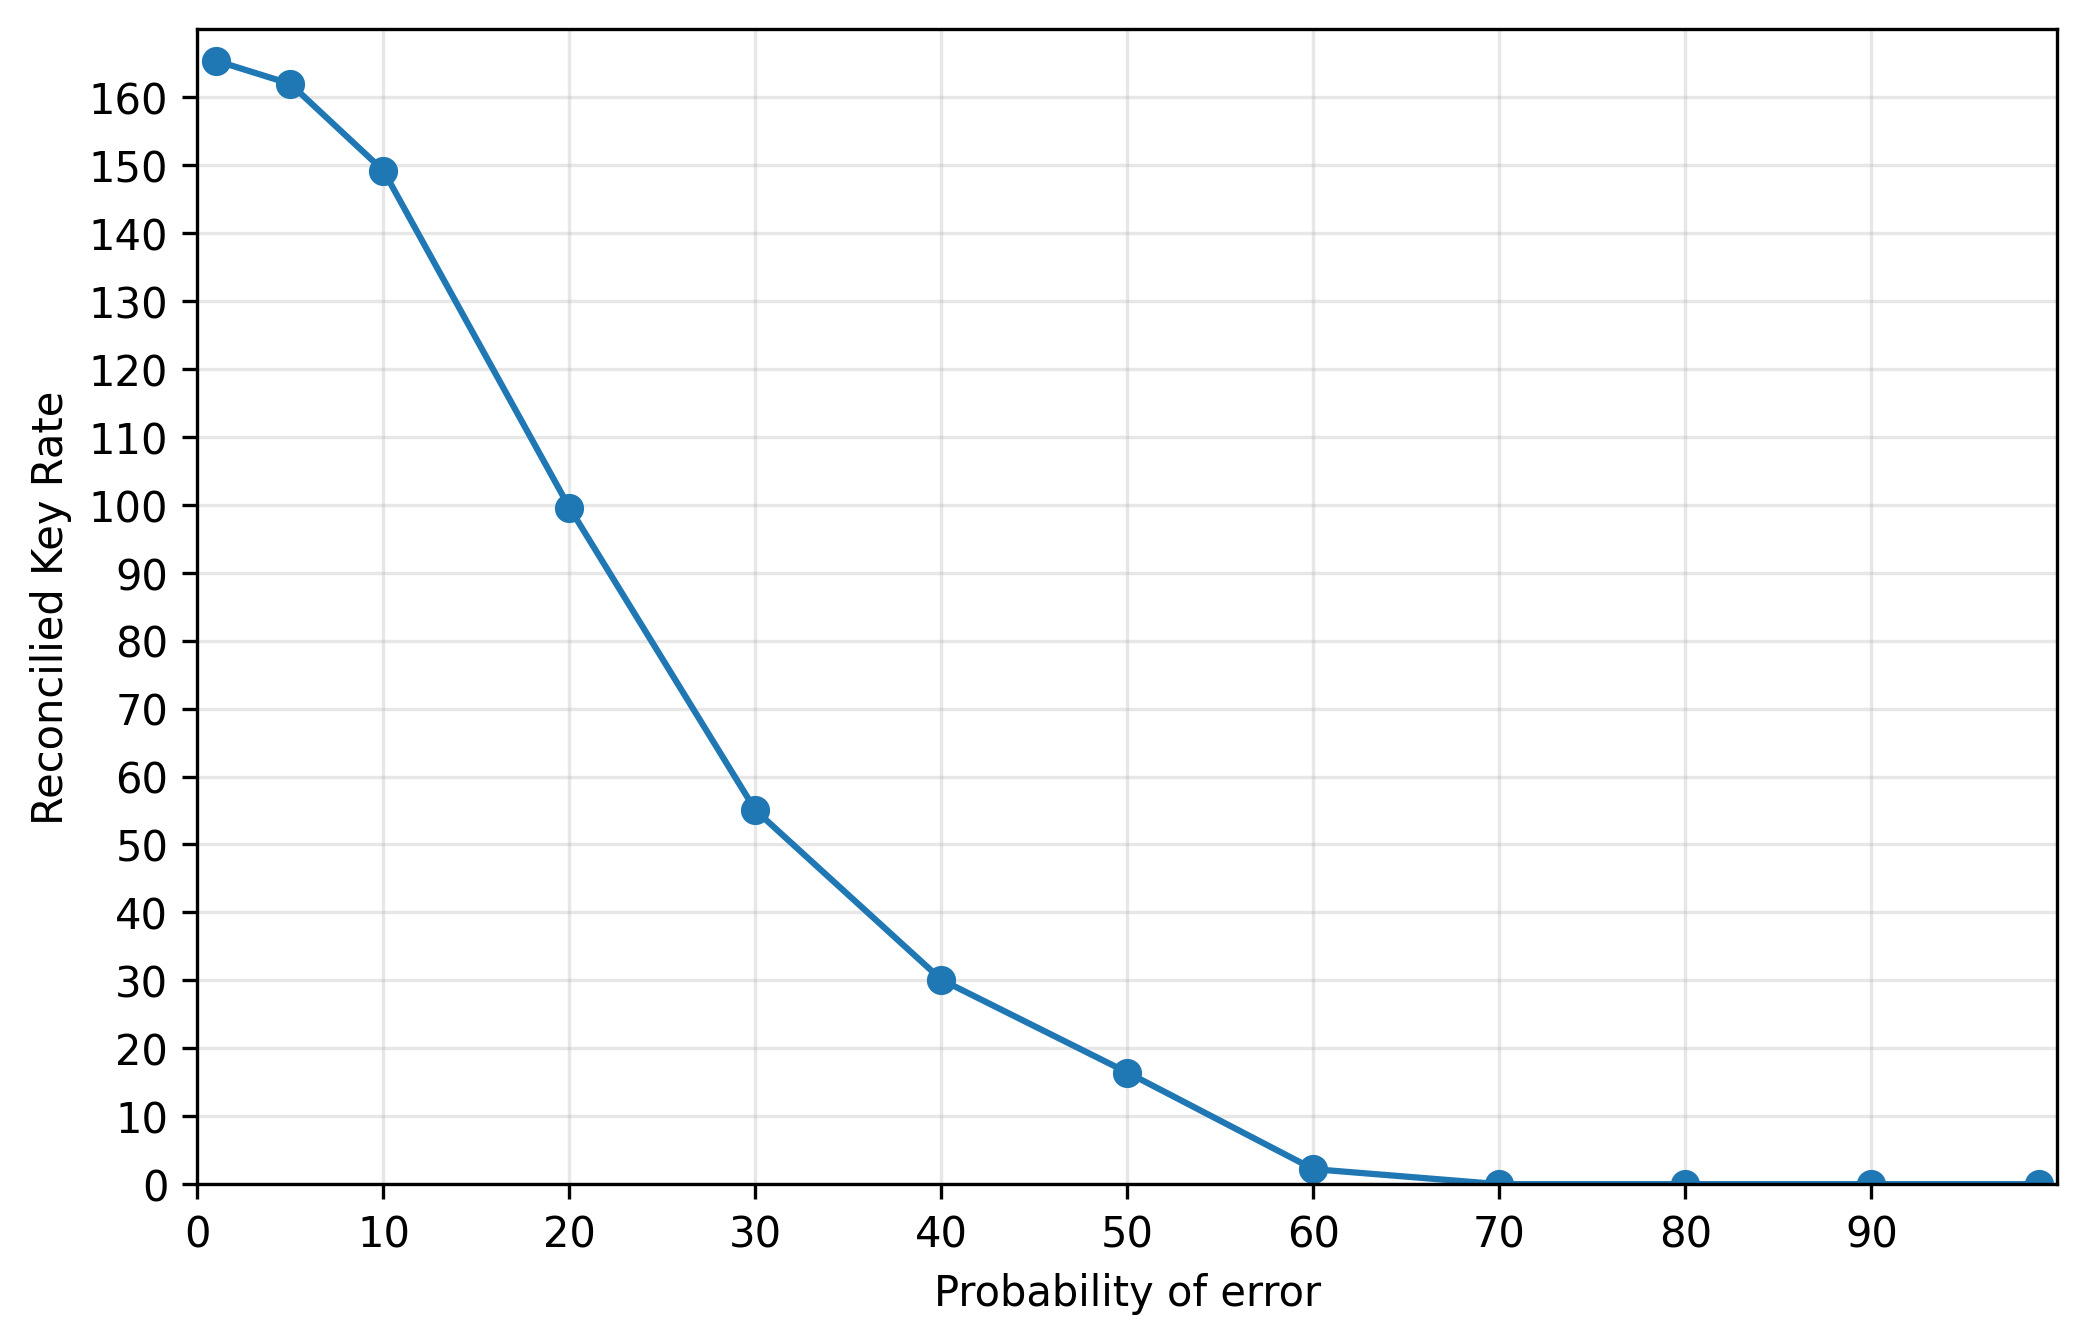
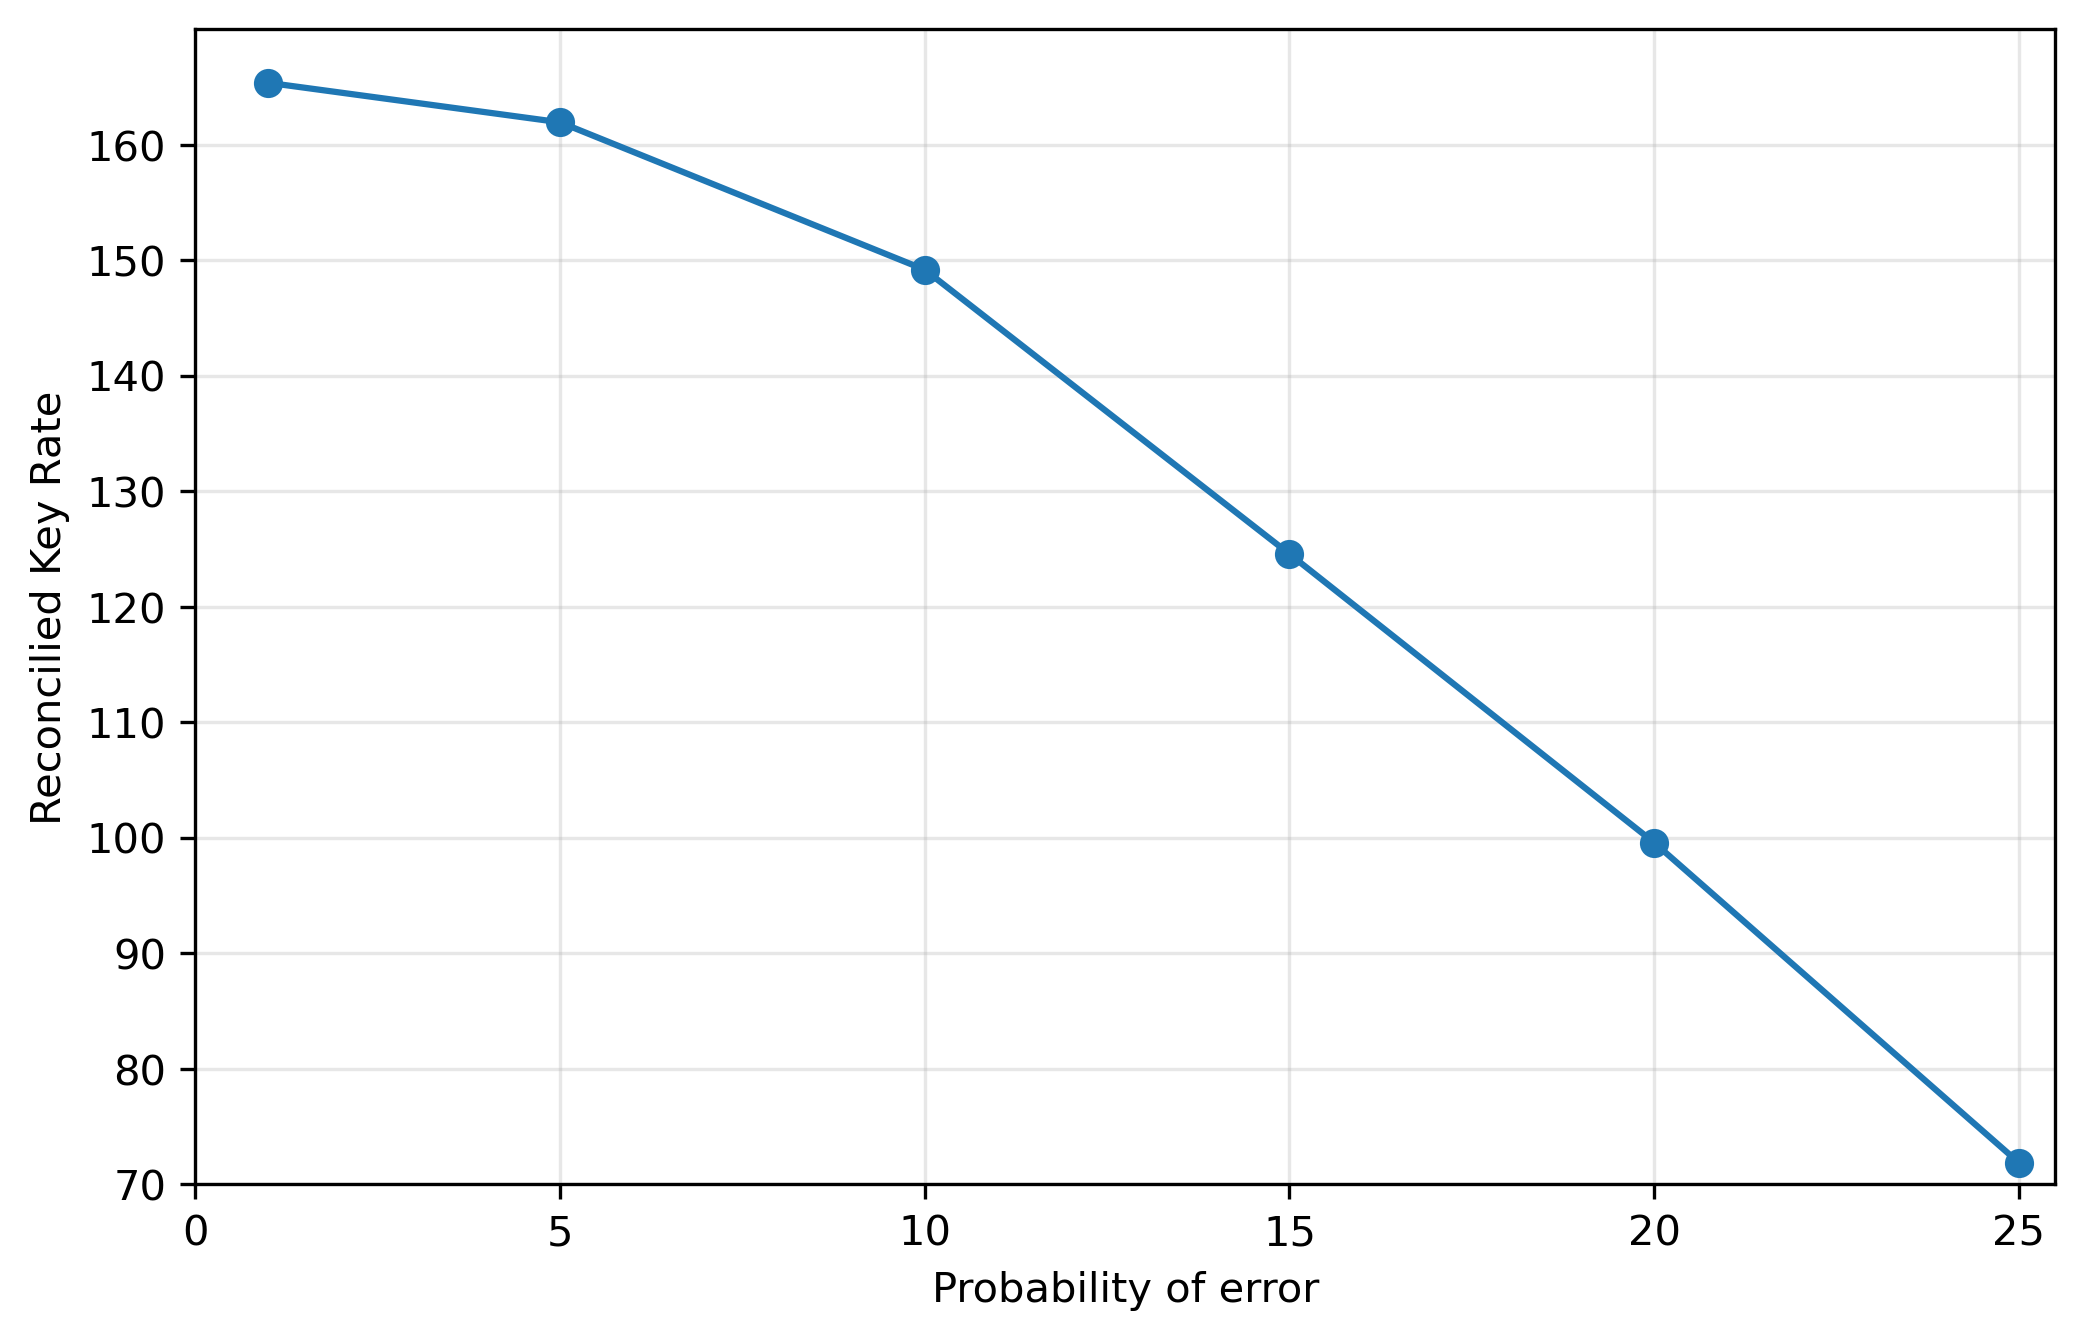
modify the the code for noise simulation

diff --git a/figure/noise_vs_reconciled_key.py b/figure/noise_vs_reconciled_key.py
@@ -1,20 +1,19 @@
 import numpy as np
 import matplotlib.pyplot as plt
 
-qbit = np.array([1, 5, 10, 20, 30, 40, 50, 60, 70, 80, 90, 99])
-Runtime = np.array([165.3557719979093, 161.9371129189411, 149.17373979531592, 
-                    99.57256148432295, 55.03459383695526, 30.084042544188403, 
-                    16.430760997467242, 2.211899916937343, 0, 0, 0, 0])
+noise = np.array([1, 5, 10, 15, 20, 25])
+Key_rate = np.array([165.3557719979093, 161.9371129189411, 149.17373979531592,
+                     124.56273947531164, 99.57256148432295, 71.8592312233456])
 
 plt.figure(figsize=(8, 5))
 
-plt.plot(qbit, Runtime, ls='-', marker='o')
+plt.plot(noise, Key_rate, ls='-', marker='o')
 
-plt.xlim(1, 100)
-plt.ylim(0, 170)
+plt.xlim(0, 25.5)
+plt.ylim(70, 170)
 
-plt.yticks(np.arange(0, 170, 10))
-plt.xticks(np.arange(0, 100, 10))
+plt.yticks(np.arange(70, 170, 10))
+plt.xticks(np.arange(0, 25.5, 5))
 
 plt.xlabel(r'Probability of error')
 plt.ylabel(r'Reconcilied Key Rate')
